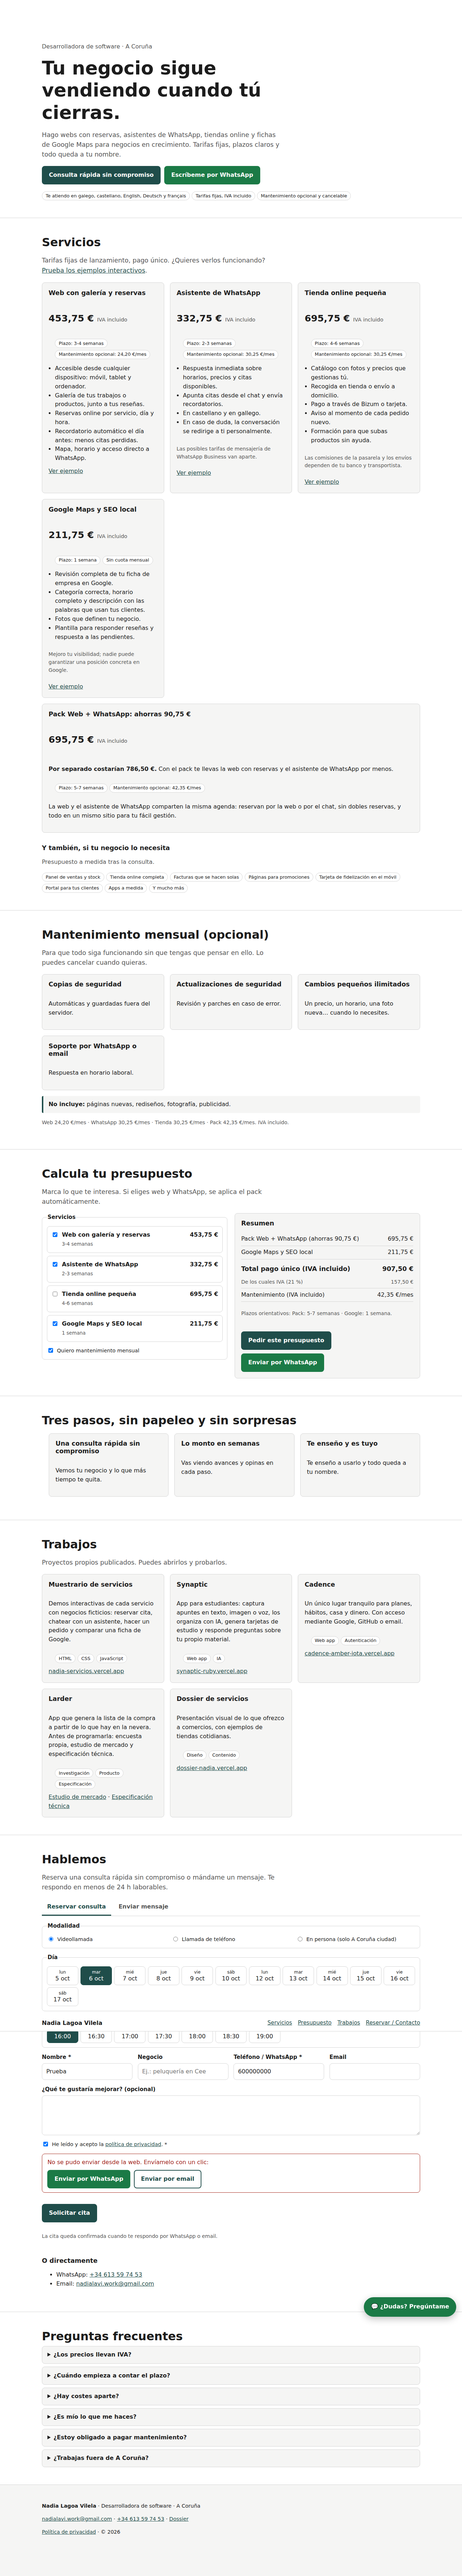
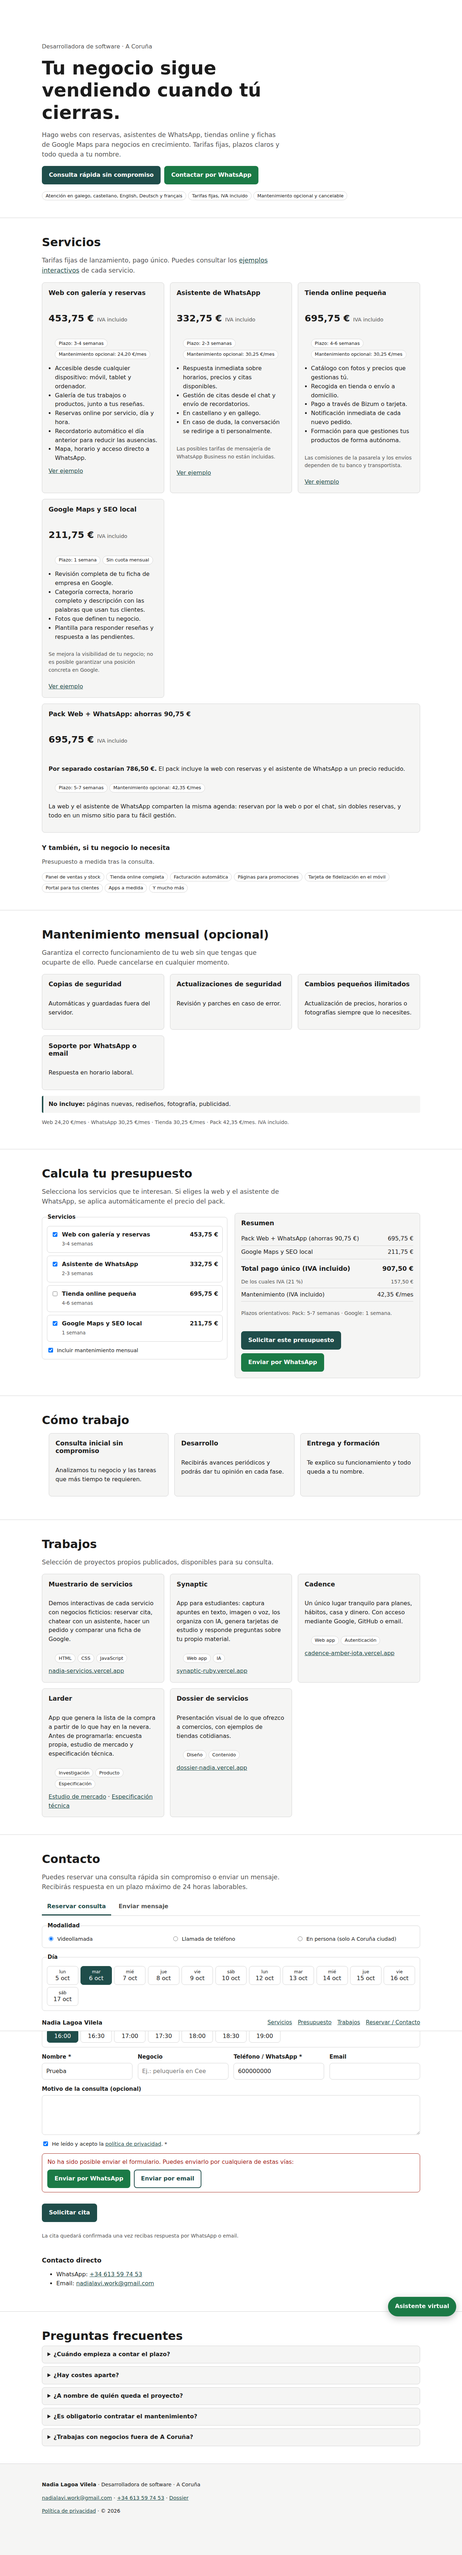
Web profesional: FAQ revisadas y tono más formal en toda la web
Quita la pregunta del IVA, nuevo texto para el inicio del plazo y
redacción más formal en servicios, contacto, formularios y chatbot.

Claude-Session: https://claude.ai/code/session_019bAWJHMBKbPW7TzX9YoPBP

diff --git a/web-profesional/index.html b/web-profesional/index.html
@@ -226,10 +226,10 @@ dialog::backdrop { background: rgba(0,0,0,.4); }
     <p class="lead">Hago webs con reservas, asistentes de WhatsApp, tiendas online y fichas de Google Maps para negocios en crecimiento. Tarifas fijas, plazos claros y todo queda a tu nombre.</p>
     <div class="actions">
       <a class="btn" href="#contacto" data-open-tab="tab-reserva">Consulta rápida sin compromiso</a>
-      <a class="btn btn--wa" data-wa="Hola Nadia, vengo de tu web y me gustaría hablar sobre mi negocio." href="https://wa.me/34613597453">Escríbeme por WhatsApp</a>
+      <a class="btn btn--wa" data-wa="Hola, Nadia. Te escribo desde tu web para hablar sobre mi negocio." href="https://wa.me/34613597453">Contactar por WhatsApp</a>
     </div>
     <ul class="tags" style="margin-top:1.2rem" aria-label="Datos rápidos">
-      <li>Te atiendo en galego, castellano, English, Deutsch y français</li>
+      <li>Atención en galego, castellano, English, Deutsch y français</li>
       <li>Tarifas fijas, IVA incluido</li>
       <li>Mantenimiento opcional y cancelable</li>
     </ul>
@@ -242,7 +242,7 @@ dialog::backdrop { background: rgba(0,0,0,.4); }
 <section id="servicios">
   <div class="wrap">
     <h2>Servicios</h2>
-    <p class="lead">Tarifas fijas de lanzamiento, pago único. ¿Quieres verlos funcionando? <a href="https://nadia-servicios.vercel.app" target="_blank" rel="noopener">Prueba los ejemplos interactivos</a>.</p>
+    <p class="lead">Tarifas fijas de lanzamiento, pago único. Puedes consultar los <a href="https://nadia-servicios.vercel.app" target="_blank" rel="noopener">ejemplos interactivos</a> de cada servicio.</p>
 
     <div class="grid" style="margin-top:1.2rem">
       <article class="card" id="srv-web">
@@ -253,7 +253,7 @@ dialog::backdrop { background: rgba(0,0,0,.4); }
           <li>Accesible desde cualquier dispositivo: móvil, tablet y ordenador.</li>
           <li>Galería de tus trabajos o productos, junto a tus reseñas.</li>
           <li>Reservas online por servicio, día y hora.</li>
-          <li>Recordatorio automático el día antes: menos citas perdidas.</li>
+          <li>Recordatorio automático el día anterior para reducir las ausencias.</li>
           <li>Mapa, horario y acceso directo a WhatsApp.</li>
         </ul>
         <a href="https://nadia-servicios.vercel.app/#web" target="_blank" rel="noopener">Ver ejemplo</a>
@@ -265,11 +265,11 @@ dialog::backdrop { background: rgba(0,0,0,.4); }
         <ul class="tags"><li>Plazo: 2-3 semanas</li><li>Mantenimiento opcional: 30,25 €/mes</li></ul>
         <ul>
           <li>Respuesta inmediata sobre horarios, precios y citas disponibles.</li>
-          <li>Apunta citas desde el chat y envía recordatorios.</li>
+          <li>Gestión de citas desde el chat y envío de recordatorios.</li>
           <li>En castellano y en gallego.</li>
           <li>En caso de duda, la conversación se redirige a ti personalmente.</li>
         </ul>
-        <p class="small muted">Las posibles tarifas de mensajería de WhatsApp Business van aparte.</p>
+        <p class="small muted">Las posibles tarifas de mensajería de WhatsApp Business no están incluidas.</p>
         <a href="https://nadia-servicios.vercel.app/#whatsapp" target="_blank" rel="noopener">Ver ejemplo</a>
       </article>
 
@@ -281,8 +281,8 @@ dialog::backdrop { background: rgba(0,0,0,.4); }
           <li>Catálogo con fotos y precios que gestionas tú.</li>
           <li>Recogida en tienda o envío a domicilio.</li>
           <li>Pago a través de Bizum o tarjeta.</li>
-          <li>Aviso al momento de cada pedido nuevo.</li>
-          <li>Formación para que subas productos sin ayuda.</li>
+          <li>Notificación inmediata de cada nuevo pedido.</li>
+          <li>Formación para que gestiones tus productos de forma autónoma.</li>
         </ul>
         <p class="small muted">Las comisiones de la pasarela y los envíos dependen de tu banco y transportista.</p>
         <a href="https://nadia-servicios.vercel.app/#tienda" target="_blank" rel="noopener">Ver ejemplo</a>
@@ -298,7 +298,7 @@ dialog::backdrop { background: rgba(0,0,0,.4); }
           <li>Fotos que definen tu negocio.</li>
           <li>Plantilla para responder reseñas y respuesta a las pendientes.</li>
         </ul>
-        <p class="small muted">Mejoro tu visibilidad; nadie puede garantizar una posición concreta en Google.</p>
+        <p class="small muted">Se mejora la visibilidad de tu negocio; no es posible garantizar una posición concreta en Google.</p>
         <a href="https://nadia-servicios.vercel.app/#google" target="_blank" rel="noopener">Ver ejemplo</a>
       </article>
     </div>
@@ -306,7 +306,7 @@ dialog::backdrop { background: rgba(0,0,0,.4); }
     <article class="card" id="srv-pack" style="margin-top:1rem">
       <h3>Pack Web + WhatsApp: ahorras 90,75 €</h3>
       <p class="price">695,75 € <small>IVA incluido</small></p>
-      <p><strong>Por separado costarían 786,50 €.</strong> Con el pack te llevas la web con reservas y el asistente de WhatsApp por menos.</p>
+      <p><strong>Por separado costarían 786,50 €.</strong> El pack incluye la web con reservas y el asistente de WhatsApp a un precio reducido.</p>
       <ul class="tags"><li>Plazo: 5-7 semanas</li><li>Mantenimiento opcional: 42,35 €/mes</li></ul>
       <p>La web y el asistente de WhatsApp comparten la misma agenda: reservan por la web o por el chat, sin dobles reservas, y todo en un mismo sitio para tu fácil gestión.</p>
     </article>
@@ -316,7 +316,7 @@ dialog::backdrop { background: rgba(0,0,0,.4); }
     <ul class="tags">
       <li>Panel de ventas y stock</li>
       <li>Tienda online completa</li>
-      <li>Facturas que se hacen solas</li>
+      <li>Facturación automática</li>
       <li>Páginas para promociones</li>
       <li>Tarjeta de fidelización en el móvil</li>
       <li>Portal para tus clientes</li>
@@ -332,11 +332,11 @@ dialog::backdrop { background: rgba(0,0,0,.4); }
 <section id="mantenimiento">
   <div class="wrap">
     <h2>Mantenimiento mensual (opcional)</h2>
-    <p class="lead">Para que todo siga funcionando sin que tengas que pensar en ello. Lo puedes cancelar cuando quieras.</p>
+    <p class="lead">Garantiza el correcto funcionamiento de tu web sin que tengas que ocuparte de ello. Puede cancelarse en cualquier momento.</p>
     <div class="grid" style="margin-top:1rem">
       <div class="card"><h3>Copias de seguridad</h3><p>Automáticas y guardadas fuera del servidor.</p></div>
       <div class="card"><h3>Actualizaciones de seguridad</h3><p>Revisión y parches en caso de error.</p></div>
-      <div class="card"><h3>Cambios pequeños ilimitados</h3><p>Un precio, un horario, una foto nueva… cuando lo necesites.</p></div>
+      <div class="card"><h3>Cambios pequeños ilimitados</h3><p>Actualización de precios, horarios o fotografías siempre que lo necesites.</p></div>
       <div class="card"><h3>Soporte por WhatsApp o email</h3><p>Respuesta en horario laboral.</p></div>
     </div>
     <p class="note" style="margin-top:1rem"><strong>No incluye:</strong> páginas nuevas, rediseños, fotografía, publicidad.</p>
@@ -350,14 +350,14 @@ dialog::backdrop { background: rgba(0,0,0,.4); }
 <section id="presupuesto">
   <div class="wrap">
     <h2>Calcula tu presupuesto</h2>
-    <p class="lead">Marca lo que te interesa. Si eliges web y WhatsApp, se aplica el pack automáticamente.</p>
+    <p class="lead">Selecciona los servicios que te interesan. Si eliges la web y el asistente de WhatsApp, se aplica automáticamente el precio del pack.</p>
 
     <div class="calc" style="margin-top:1rem">
       <fieldset>
         <legend>Servicios</legend>
         <div style="display:grid;gap:.5rem" id="calc-options"><!-- generado por JS --></div>
         <label class="check" style="margin-top:.8rem">
-          <input type="checkbox" id="calc-maint"> Quiero mantenimiento mensual
+          <input type="checkbox" id="calc-maint"> Incluir mantenimiento mensual
         </label>
       </fieldset>
 
@@ -373,7 +373,7 @@ dialog::backdrop { background: rgba(0,0,0,.4); }
         </table>
         <p class="small muted" id="calc-time"></p>
         <div class="actions">
-          <button type="button" class="btn" id="calc-send" disabled>Pedir este presupuesto</button>
+          <button type="button" class="btn" id="calc-send" disabled>Solicitar este presupuesto</button>
           <a class="btn btn--wa" id="calc-wa" href="https://wa.me/34613597453" aria-disabled="true">Enviar por WhatsApp</a>
         </div>
       </div>
@@ -386,11 +386,11 @@ dialog::backdrop { background: rgba(0,0,0,.4); }
      ============================================================= -->
 <section id="como-trabajo">
   <div class="wrap">
-    <h2>Tres pasos, sin papeleo y sin sorpresas</h2>
+    <h2>Cómo trabajo</h2>
     <ol class="grid" style="padding-left:1.2rem">
-      <li class="card"><h3>Una consulta rápida sin compromiso</h3><p>Vemos tu negocio y lo que más tiempo te quita.</p></li>
-      <li class="card"><h3>Lo monto en semanas</h3><p>Vas viendo avances y opinas en cada paso.</p></li>
-      <li class="card"><h3>Te enseño y es tuyo</h3><p>Te enseño a usarlo y todo queda a tu nombre.</p></li>
+      <li class="card"><h3>Consulta inicial sin compromiso</h3><p>Analizamos tu negocio y las tareas que más tiempo te requieren.</p></li>
+      <li class="card"><h3>Desarrollo</h3><p>Recibirás avances periódicos y podrás dar tu opinión en cada fase.</p></li>
+      <li class="card"><h3>Entrega y formación</h3><p>Te explico su funcionamiento y todo queda a tu nombre.</p></li>
     </ol>
   </div>
 </section>
@@ -401,7 +401,7 @@ dialog::backdrop { background: rgba(0,0,0,.4); }
 <section id="trabajos">
   <div class="wrap">
     <h2>Trabajos</h2>
-    <p class="lead">Proyectos propios publicados. Puedes abrirlos y probarlos.</p>
+    <p class="lead">Selección de proyectos propios publicados, disponibles para su consulta.</p>
     <div class="grid" style="margin-top:1rem">
       <article class="card">
         <h3>Muestrario de servicios</h3>
@@ -442,8 +442,8 @@ dialog::backdrop { background: rgba(0,0,0,.4); }
      ============================================================= -->
 <section id="contacto">
   <div class="wrap">
-    <h2>Hablemos</h2>
-    <p class="lead">Reserva una consulta rápida sin compromiso o mándame un mensaje. Te respondo en menos de 24 h laborables.</p>
+    <h2>Contacto</h2>
+    <p class="lead">Puedes reservar una consulta rápida sin compromiso o enviar un mensaje. Recibirás respuesta en un plazo máximo de 24 horas laborables.</p>
 
     <div class="tabs" role="tablist" aria-label="Forma de contacto">
       <button type="button" role="tab" id="tab-reserva" aria-controls="panel-reserva" aria-selected="true">Reservar consulta</button>
@@ -469,7 +469,7 @@ dialog::backdrop { background: rgba(0,0,0,.4); }
 
         <fieldset>
           <legend id="lbl-horas">Hora</legend>
-          <div class="choice-grid" id="res-slots" role="group" aria-labelledby="lbl-horas"><p class="muted small">Elige primero un día.</p></div>
+          <div class="choice-grid" id="res-slots" role="group" aria-labelledby="lbl-horas"><p class="muted small">Selecciona primero un día.</p></div>
         </fieldset>
 
         <div class="row-2">
@@ -478,7 +478,7 @@ dialog::backdrop { background: rgba(0,0,0,.4); }
           <div class="field"><label for="r-tel">Teléfono / WhatsApp *</label><input id="r-tel" name="telefono" type="tel" autocomplete="tel" required></div>
           <div class="field"><label for="r-email">Email</label><input id="r-email" name="email" type="email" autocomplete="email"></div>
         </div>
-        <div class="field"><label for="r-nota">¿Qué te gustaría mejorar? (opcional)</label><textarea id="r-nota" name="nota"></textarea></div>
+        <div class="field"><label for="r-nota">Motivo de la consulta (opcional)</label><textarea id="r-nota" name="nota"></textarea></div>
         <input class="hp" type="text" name="_honey" tabindex="-1" autocomplete="off" aria-hidden="true">
         <label class="check"><input type="checkbox" name="privacidad" required> <span>He leído y acepto la <a href="#" data-open-privacy>política de privacidad</a>. *</span></label>
         <div class="status" id="res-status" role="status" hidden></div>
@@ -486,7 +486,7 @@ dialog::backdrop { background: rgba(0,0,0,.4); }
           <button type="submit" class="btn">Solicitar cita</button>
           <a class="btn btn--outline" id="google-booking" href="#" target="_blank" rel="noopener" hidden>Reservar en mi agenda de Google</a>
         </div>
-        <p class="small muted">La cita queda confirmada cuando te respondo por WhatsApp o email.</p>
+        <p class="small muted">La cita quedará confirmada una vez recibas respuesta por WhatsApp o email.</p>
       </form>
     </div>
 
@@ -502,7 +502,7 @@ dialog::backdrop { background: rgba(0,0,0,.4); }
         <div class="field">
           <label for="m-servicio">Me interesa</label>
           <select id="m-servicio" name="servicio">
-            <option>Aún no lo sé</option>
+            <option>Sin decidir</option>
             <option>Web con galería y reservas</option>
             <option>Asistente de WhatsApp</option>
             <option>Tienda online pequeña</option>
@@ -519,9 +519,9 @@ dialog::backdrop { background: rgba(0,0,0,.4); }
       </form>
     </div>
 
-    <h3 style="margin-top:2rem">O directamente</h3>
+    <h3 style="margin-top:2rem">Contacto directo</h3>
     <ul>
-      <li>WhatsApp: <a data-wa="Hola Nadia, vengo de tu web." href="https://wa.me/34613597453">+34 613 59 74 53</a></li>
+      <li>WhatsApp: <a data-wa="Hola, Nadia. Te escribo desde tu web." href="https://wa.me/34613597453">+34 613 59 74 53</a></li>
       <li>Email: <a href="mailto:nadialavi.work@gmail.com">nadialavi.work@gmail.com</a></li>
     </ul>
   </div>
@@ -533,12 +533,11 @@ dialog::backdrop { background: rgba(0,0,0,.4); }
 <section id="faq">
   <div class="wrap">
     <h2>Preguntas frecuentes</h2>
-    <details><summary>¿Los precios llevan IVA?</summary><p>Sí. Todos los precios que ves ya incluyen el IVA (21 %).</p></details>
-    <details><summary>¿Cuándo empieza a contar el plazo?</summary><p>Cuando tengo los textos y las fotos de tu negocio. Los plazos son orientativos y te los confirmo antes de empezar.</p></details>
-    <details><summary>¿Hay costes aparte?</summary><p>Lo que cobran terceros: dominio y alojamiento si los necesitas, comisiones de la pasarela de pago y tarifas de WhatsApp Business. Te digo cuáles aplican a tu caso antes de empezar.</p></details>
-    <details><summary>¿Es mío lo que me haces?</summary><p>Sí. Todo queda a tu nombre y te enseño a usarlo.</p></details>
-    <details><summary>¿Estoy obligado a pagar mantenimiento?</summary><p>No. Es opcional y lo puedes cancelar cuando quieras.</p></details>
-    <details><summary>¿Trabajas fuera de A Coruña?</summary><p>Me centro en A Coruña, pero escríbeme igualmente y lo vemos.</p></details>
+    <details><summary>¿Cuándo empieza a contar el plazo?</summary><p>Cuando haya recopilado la información necesaria para comenzar el desarrollo de tu web. Los plazos son orientativos y se confirman antes de iniciar el proyecto.</p></details>
+    <details><summary>¿Hay costes aparte?</summary><p>Únicamente los correspondientes a servicios de terceros: dominio y alojamiento (si son necesarios), comisiones de la pasarela de pago y tarifas de WhatsApp Business. Antes de iniciar el proyecto te indicaré cuáles aplican en tu caso.</p></details>
+    <details><summary>¿A nombre de quién queda el proyecto?</summary><p>A tu nombre. Al finalizar, recibirás la formación necesaria para gestionarlo.</p></details>
+    <details><summary>¿Es obligatorio contratar el mantenimiento?</summary><p>No. Es opcional y puede cancelarse en cualquier momento.</p></details>
+    <details><summary>¿Trabajas con negocios fuera de A Coruña?</summary><p>Mi actividad se centra en A Coruña. Si tu negocio se encuentra en otra zona, puedes contactarme y valoraremos tu caso.</p></details>
   </div>
 </section>
 
@@ -547,7 +546,7 @@ dialog::backdrop { background: rgba(0,0,0,.4); }
 <footer class="site-footer">
   <div class="wrap">
     <p><strong>Nadia Lagoa Vilela</strong> · Desarrolladora de software · A Coruña</p>
-    <p><a href="mailto:nadialavi.work@gmail.com">nadialavi.work@gmail.com</a> · <a data-wa="Hola Nadia, vengo de tu web." href="https://wa.me/34613597453">+34 613 59 74 53</a> · <a href="https://dossier-nadia.vercel.app" target="_blank" rel="noopener">Dossier</a></p>
+    <p><a href="mailto:nadialavi.work@gmail.com">nadialavi.work@gmail.com</a> · <a data-wa="Hola, Nadia. Te escribo desde tu web." href="https://wa.me/34613597453">+34 613 59 74 53</a> · <a href="https://dossier-nadia.vercel.app" target="_blank" rel="noopener">Dossier</a></p>
     <p class="small"><a href="#" data-open-privacy>Política de privacidad</a> · © <span id="year">2026</span></p>
   </div>
 </footer>
@@ -567,7 +566,7 @@ dialog::backdrop { background: rgba(0,0,0,.4); }
 </dialog>
 
 <!-- Chatbot -->
-<button type="button" class="btn btn--wa chat-launcher" id="chat-open" aria-controls="chat" aria-expanded="false">💬 ¿Dudas? Pregúntame</button>
+<button type="button" class="btn btn--wa chat-launcher" id="chat-open" aria-controls="chat" aria-expanded="false">Asistente virtual</button>
 <div class="chat" id="chat" role="dialog" aria-labelledby="chat-title" hidden>
   <div class="chat__head">
     <div>
@@ -661,11 +660,11 @@ function showStatus(box, ok, summary) {
   box.replaceChildren();
   if (ok) {
     box.dataset.type = 'ok';
-    box.textContent = '¡Recibido! Te respondo en menos de 24 h laborables.';
+    box.textContent = 'Mensaje recibido. Recibirás respuesta en un plazo máximo de 24 horas laborables.';
     return;
   }
   box.dataset.type = 'error';
-  box.append(el('p', { style: 'margin:0 0 .5rem' }, 'No se pudo enviar desde la web. Envíamelo con un clic:'));
+  box.append(el('p', { style: 'margin:0 0 .5rem' }, 'No ha sido posible enviar el formulario. Puedes enviarlo por cualquiera de estas vías:'));
   const actions = el('div', { class: 'actions', style: 'margin:0' });
   actions.append(
     el('a', { class: 'btn btn--wa', href: waLink(summary), target: '_blank', rel: 'noopener' }, 'Enviar por WhatsApp'),
@@ -778,7 +777,7 @@ $$('[data-open-tab]').forEach(a => a.addEventListener('click', () => selectTab(d
     e.preventDefault();
     if (!state.date || !state.time) {
       status.hidden = false; status.dataset.type = 'error';
-      status.textContent = 'Elige un día y una hora.';
+      status.textContent = 'Selecciona un día y una hora.';
       (state.date ? slotsBox : daysBox).querySelector('button')?.focus();
       return;
     }
@@ -803,11 +802,11 @@ $$('[data-open-tab]').forEach(a => a.addEventListener('click', () => selectTab(d
     btn.disabled = false; btn.textContent = 'Solicitar cita';
     showStatus(status, ok, summary);
     if (ok) {
-      status.textContent = `¡Solicitud enviada! ${when} (${data.Modalidad}). Te confirmo por WhatsApp o email.`;
+      status.textContent = `Solicitud enviada: ${when} (${data.Modalidad}). Recibirás la confirmación por WhatsApp o email.`;
       form.reset();
       $$('.choice', form).forEach(x => x.setAttribute('aria-pressed', 'false'));
       state.date = state.time = null;
-      slotsBox.replaceChildren(el('p', { class: 'muted small' }, 'Elige primero un día.'));
+      slotsBox.replaceChildren(el('p', { class: 'muted small' }, 'Selecciona primero un día.'));
     }
   });
 })();
@@ -938,12 +937,12 @@ $$('[data-open-tab]').forEach(a => a.addEventListener('click', () => selectTab(d
     es: {
       sub: 'Respuesta inmediata',
       placeholder: 'Escribe tu pregunta',
-      hello: '¡Hola! 👋 Soy el asistente de Nadia. Pregúntame por servicios, tarifas, plazos o cómo reservar una consulta rápida sin compromiso.\nSi prefieres hablar con ella, te paso a su WhatsApp.',
+      hello: 'Hola, soy el asistente virtual de Nadia. Puedo informarte sobre servicios, tarifas, plazos o la reserva de una consulta rápida sin compromiso.\nSi prefieres hablar directamente con ella, puedo redirigirte a su WhatsApp.',
       quick: [['servicios', 'Servicios'], ['precios', 'Tarifas'], ['plazos', 'Plazos'], ['cafe', 'Reservar consulta'], ['humano', 'Hablar con Nadia']],
       toNadia: 'Hablar con Nadia por WhatsApp',
       bookBtn: 'Ir a reservar',
       calcBtn: 'Abrir calculadora',
-      waIntro: 'Hola Nadia, vengo de tu web.',
+      waIntro: 'Hola, Nadia. Te escribo desde tu web.',
       answers: {
         servicios: () => `Ofrezco (IVA incluido):\n${list('es')}\n• ${PACK.name}: ${eur.format(gross(PACK.price))}\nTambién cosas a medida: panel de ventas y stock, facturas automáticas, tarjeta de fidelización y mucho más.`,
         precios: () => `Tarifas fijas de lanzamiento, pago único, IVA incluido:\n${list('es')}\n• ${PACK.name}: ${eur.format(gross(PACK.price))} (ahorras ${eur.format(PACK_SAVING)})\nMantenimiento opcional: ${maintList('es')}.`,
@@ -955,13 +954,13 @@ $$('[data-open-tab]').forEach(a => a.addEventListener('click', () => selectTab(d
         mantenimiento: () => `El mantenimiento es opcional y cancelable (${maintList('es')}, IVA incluido): copias de seguridad, revisión y parches en caso de error, cambios pequeños ilimitados y soporte por WhatsApp o email. No incluye páginas nuevas, rediseños, fotografía ni publicidad.`,
         iva: () => 'Todos los precios que ves ya incluyen el IVA (21 %).',
         cafe: () => 'La consulta rápida, sin compromiso, sirve para ver tu negocio y lo que más tiempo te quita (videollamada, teléfono o, solo en A Coruña ciudad, en persona). Elige día y hora en el formulario de reserva.',
-        zona: () => 'Me centro en A Coruña. Si estás en otra zona, escríbeme y lo vemos.',
+        zona: () => 'La actividad se centra en A Coruña. Si tu negocio se encuentra en otra zona, puedes contactar con Nadia para valorar tu caso.',
         idiomas: () => 'Nadia te atiende en galego, castellano, English, Deutsch y français.',
-        propiedad: () => 'Todo queda a tu nombre y Nadia te enseña a usarlo.',
-        hola: () => '¡Hola! ¿Qué te gustaría saber? Puedes usar los botones de abajo.',
-        gracias: () => '¡A ti! Si quieres, reserva una consulta o escribe a Nadia por WhatsApp.',
-        humano: () => 'Claro, te paso con Nadia. Pulsa el botón y se abre WhatsApp con tu conversación.',
-        fallback: () => 'Eso prefiero que te lo responda Nadia directamente. Te paso con ella: pulsa el botón y se abre WhatsApp con tu pregunta ya escrita.'
+        propiedad: () => 'Todo queda a tu nombre y Nadia te proporciona la formación necesaria para gestionarlo.',
+        hola: () => 'Hola. ¿En qué puedo ayudarte? También puedes utilizar los botones inferiores.',
+        gracias: () => 'Gracias a ti. Si lo deseas, puedes reservar una consulta o contactar con Nadia por WhatsApp.',
+        humano: () => 'Por supuesto. Pulsa el botón para abrir WhatsApp con tu conversación.',
+        fallback: () => 'Esta consulta la resolverá Nadia personalmente. Pulsa el botón para abrir WhatsApp con tu pregunta ya redactada.'
       },
       keys: {
         humano: ['hablar con', 'una persona', 'humano', 'llamar', 'llamame'],
@@ -986,12 +985,12 @@ $$('[data-open-tab]').forEach(a => a.addEventListener('click', () => selectTab(d
     gl: {
       sub: 'Resposta inmediata',
       placeholder: 'Escribe a túa pregunta',
-      hello: 'Ola! 👋 Son o asistente de Nadia. Pregúntame por servizos, tarifas, prazos ou como reservar unha consulta rápida sen compromiso.\nSe prefires falar con ela, pásote ao seu WhatsApp.',
+      hello: 'Ola, son o asistente virtual de Nadia. Podo informarte sobre servizos, tarifas, prazos ou a reserva dunha consulta rápida sen compromiso.\nSe prefires falar directamente con ela, podo redirixirte ao seu WhatsApp.',
       quick: [['servicios', 'Servizos'], ['precios', 'Tarifas'], ['plazos', 'Prazos'], ['cafe', 'Reservar consulta'], ['humano', 'Falar con Nadia']],
       toNadia: 'Falar con Nadia por WhatsApp',
       bookBtn: 'Ir reservar',
       calcBtn: 'Abrir calculadora',
-      waIntro: 'Ola Nadia, veño da túa web.',
+      waIntro: 'Ola, Nadia. Escríboche desde a túa web.',
       answers: {
         servicios: () => `Ofrezo (IVE incluído):\n${list('gl')}\n• ${PACK.name}: ${eur.format(gross(PACK.price))}\nTamén cousas a medida: panel de vendas e stock, facturas automáticas, tarxeta de fidelización e moito máis.`,
         precios: () => `Tarifas fixas de lanzamento, pagamento único, IVE incluído:\n${list('gl')}\n• ${PACK.name}: ${eur.format(gross(PACK.price))} (aforras ${eur.format(PACK_SAVING)})\nMantemento opcional: ${maintList('gl')}.`,
@@ -1003,13 +1002,13 @@ $$('[data-open-tab]').forEach(a => a.addEventListener('click', () => selectTab(d
         mantenimiento: () => `O mantemento é opcional e cancelable (${maintList('gl')}, IVE incluído): copias de seguridade, revisión e parches en caso de erro, cambios pequenos ilimitados e soporte por WhatsApp ou email. Non inclúe páxinas novas, redeseños, fotografía nin publicidade.`,
         iva: () => 'Todos os prezos que ves xa inclúen o IVE (21 %).',
         cafe: () => 'A consulta rápida, sen compromiso, serve para ver o teu negocio e o que máis tempo che quita (videochamada, teléfono ou, só na cidade da Coruña, en persoa). Escolle día e hora no formulario de reserva.',
-        zona: () => 'Céntrome na Coruña. Se estás noutra zona, escríbeme e vémolo.',
+        zona: () => 'A actividade céntrase na Coruña. Se o teu negocio está noutra zona, podes contactar con Nadia para valorar o teu caso.',
         idiomas: () => 'Nadia atendeche en galego, castelán, English, Deutsch e français.',
-        propiedad: () => 'Todo queda ao teu nome e Nadia ensínache a usalo.',
-        hola: () => 'Ola! Que che gustaría saber? Podes usar os botóns de abaixo.',
-        gracias: () => 'Grazas a ti! Se queres, reserva unha consulta ou escribe a Nadia por WhatsApp.',
-        humano: () => 'Claro, pásote con Nadia. Preme o botón e ábrese WhatsApp coa túa conversa.',
-        fallback: () => 'Iso prefiro que cho responda Nadia directamente. Pásote con ela: preme o botón e ábrese WhatsApp coa túa pregunta xa escrita.'
+        propiedad: () => 'Todo queda ao teu nome e Nadia proporciónache a formación necesaria para xestionalo.',
+        hola: () => 'Ola. En que podo axudarte? Tamén podes utilizar os botóns inferiores.',
+        gracias: () => 'Grazas a ti. Se o desexas, podes reservar unha consulta ou contactar con Nadia por WhatsApp.',
+        humano: () => 'Por suposto. Preme o botón para abrir WhatsApp coa túa conversa.',
+        fallback: () => 'Esta consulta resolveraa Nadia persoalmente. Preme o botón para abrir WhatsApp coa túa pregunta xa redactada.'
       },
       keys: {
         humano: ['falar con', 'unha persoa', 'humano', 'chamar', 'chamame'],
